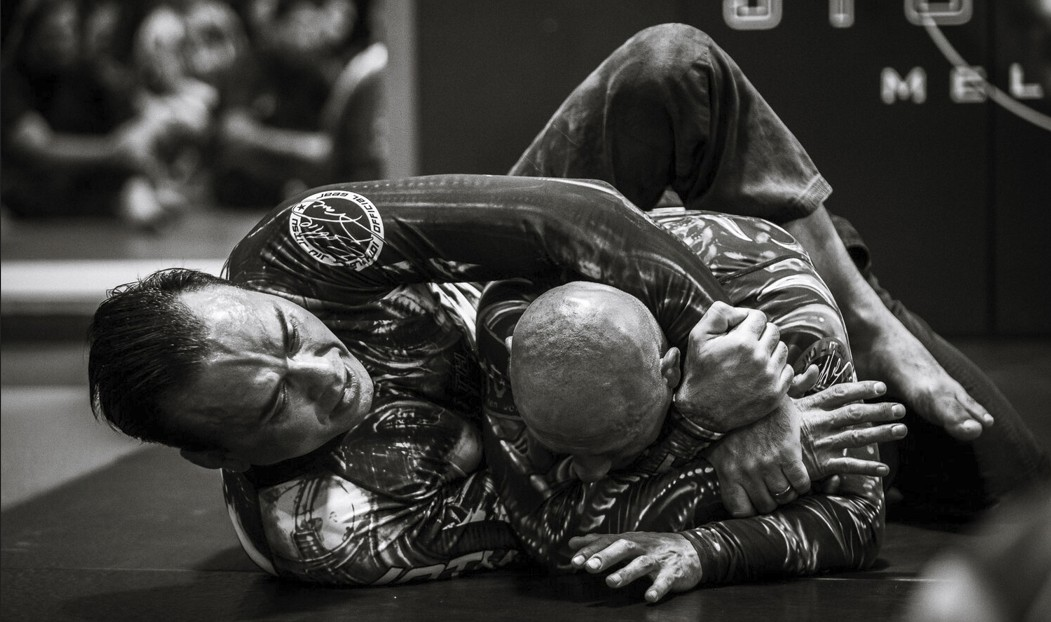
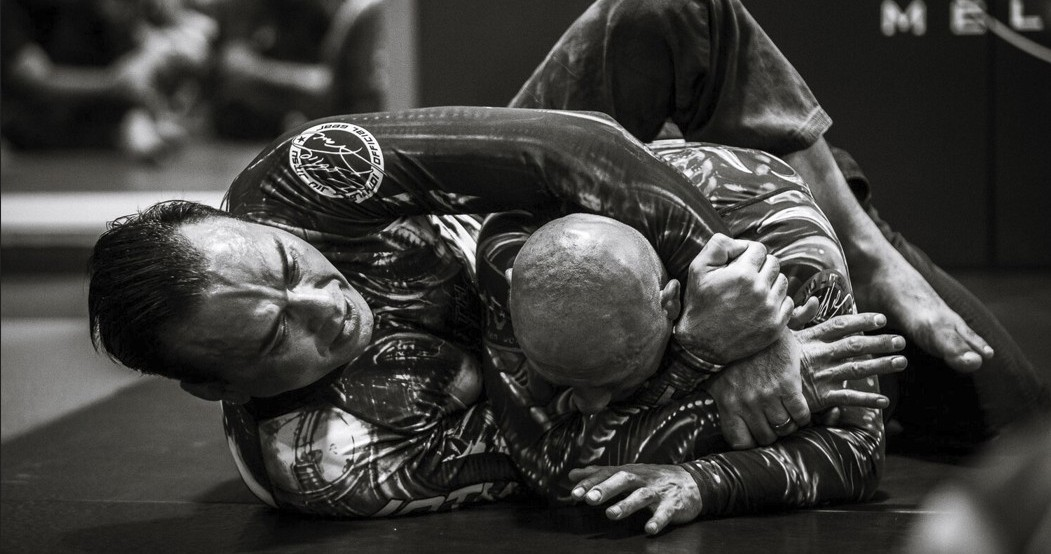
resized hero images and added transition to image overlay in information section

diff --git a/src/Components/Information/Information.jsx b/src/Components/Information/Information.jsx
@@ -24,10 +24,10 @@ const Information = () => {
             <div className="w-full h-full bg-gradient-to-br from-gray-700 to-gray-900 flex items-center justify-center relative">
               <img
                 src={eddieB}
-                alt="Eddie Bravo vs Royler Gracie at Metamoris 3"
+                alt="Eddie Bravo rolling with student"
                 className="w-full h-full object-cover transition-transform duration-500 group-hover:scale-105"
               />
-              <div className="absolute inset-0 bg-gradient-to-br from-gray-900/50 to-gray-800/50"></div>
+              <div className="absolute inset-0 bg-gradient-to-br from-gray-900/50 to-gray-800/50 transition-transform duration-500 group-hover:scale-105"></div>
             </div>
           </div>
         </div>
